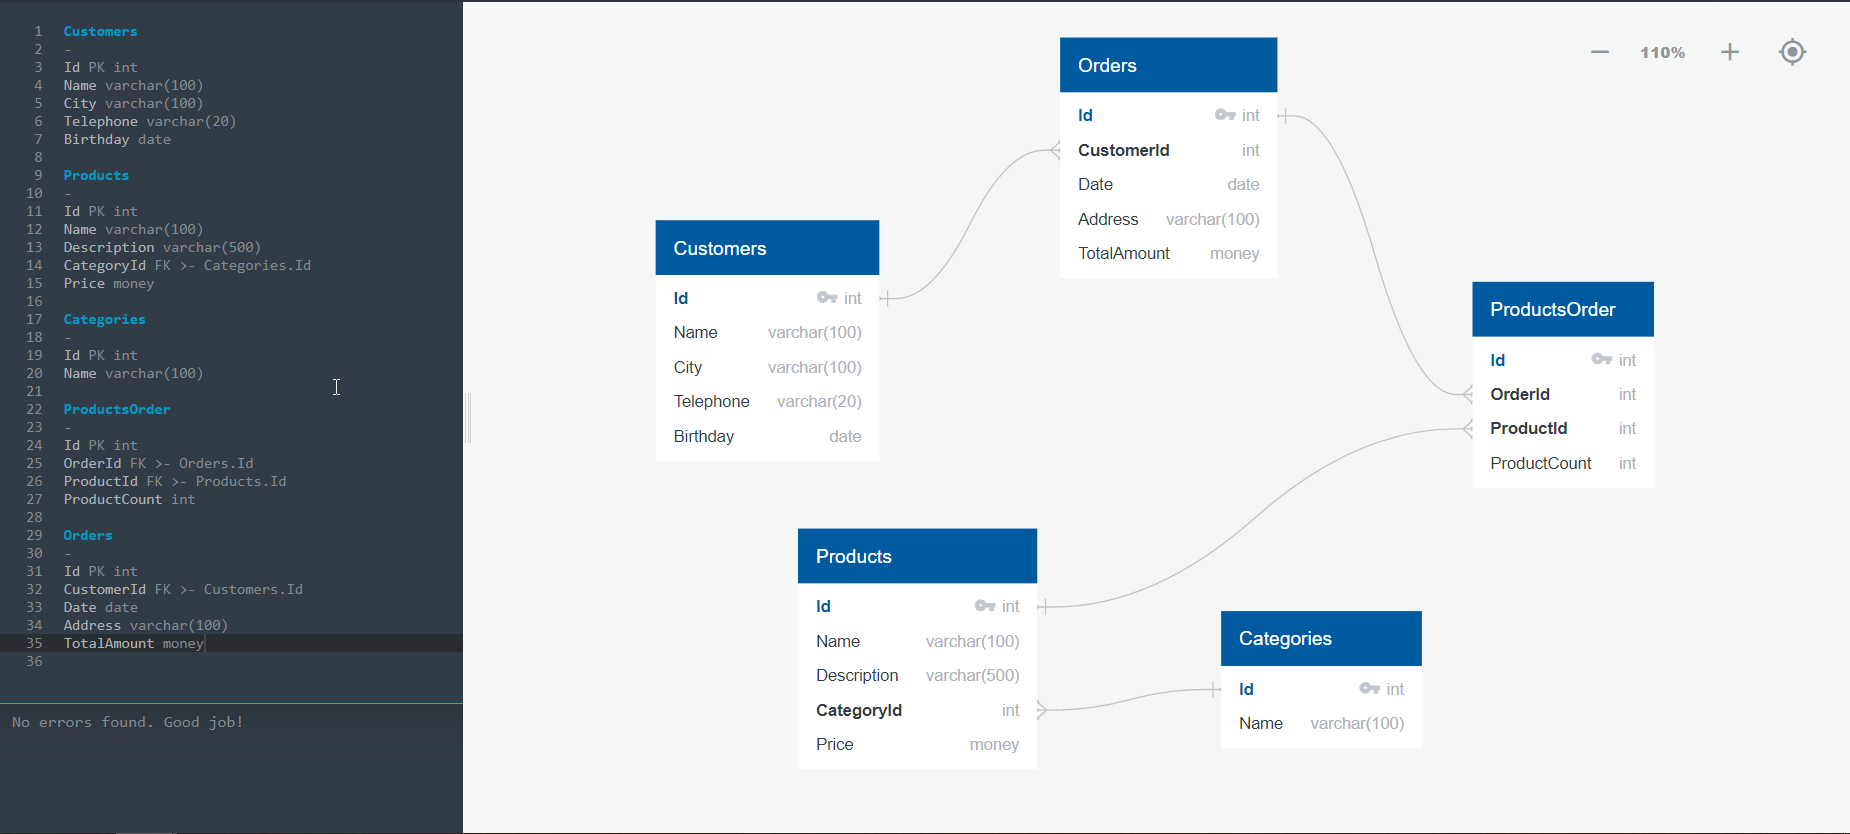
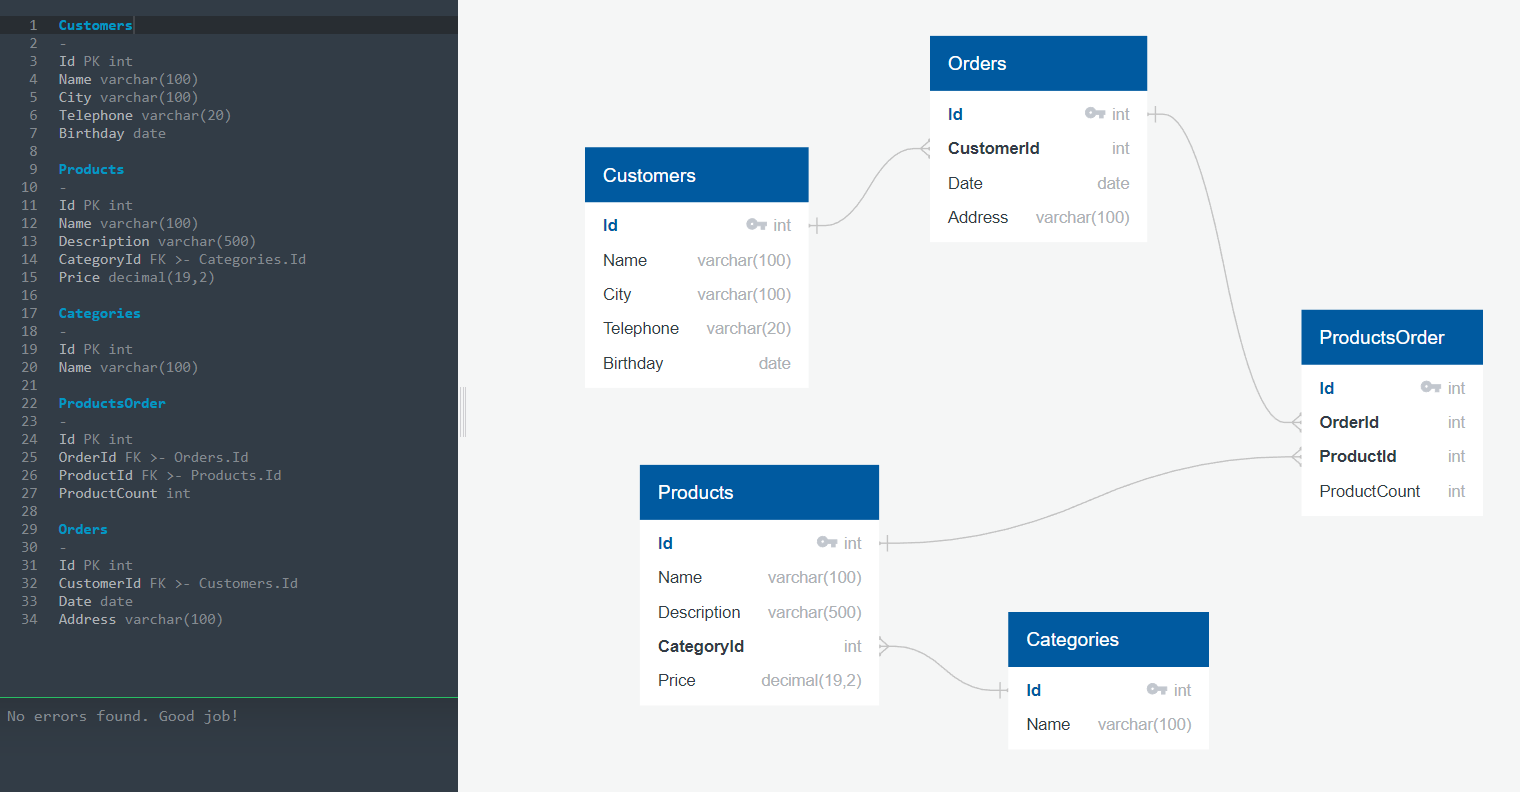
Added DB data and SQL queries

diff --git a/README.md b/README.md
@@ -1,0 +1,3 @@
+DB Scheme created with [QuickDBD](https://app.quickdatabasediagrams.com/#/)
+
+![DB_Scheme!](/DB_Scheme.png "DB Scheme")
